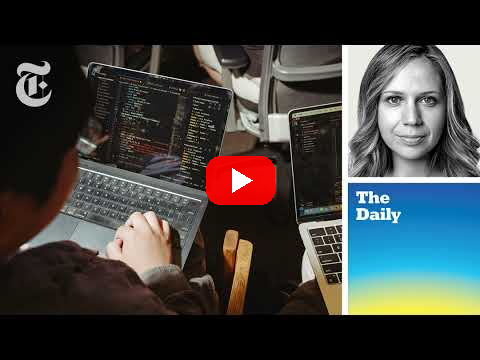
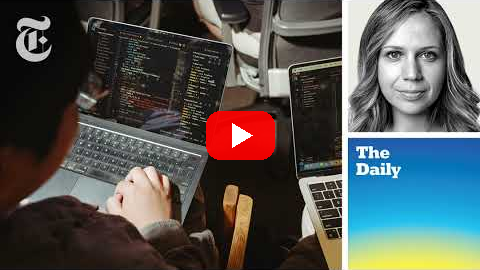
Fix YouTube thumbnail proportions in GitHub blog rendering

diff --git a/tools/youtube_watch.py b/tools/youtube_watch.py
@@ -6,7 +6,7 @@ linking back to it.
     python3 tools/youtube_watch.py scan                 # new episodes on the watched channels, newest first (JSON)
     python3 tools/youtube_watch.py details <video id>   # title, channel, published, length, description, caption tracks,
                                                         # and the complete English transcript as plain text (JSON)
-    python3 tools/youtube_watch.py thumbnail <video id> # writes images/youtube/<id>.png: the thumbnail at YouTube's hqdefault size (480x360) with a play arrow
+    python3 tools/youtube_watch.py thumbnail <video id> # writes images/youtube/<id>.png: a 16:9 thumbnail (480x270) with a play arrow
     python3 tools/youtube_watch.py answered <video id> <post slug>   # records the reply so the episode is never answered twice
     python3 tools/youtube_watch.py feeds                # new articles on the watched newsletters (RSS), newest first (JSON)
 
@@ -392,12 +392,13 @@ def thumbnail(video_id, local_jpg=None):
             break
     if not jpg:
         raise SystemExit("no thumbnail available")
+    # hqdefault includes letterbox bars: crop to 16:9, never stretch the source.
     with Image.open(BytesIO(jpg)) as source:
-        thumb = ImageOps.fit(source.convert("RGBA"), (480, 360), method=Image.Resampling.LANCZOS)
+        thumb = ImageOps.fit(source.convert("RGBA"), (480, 270), method=Image.Resampling.LANCZOS)
     overlay = Image.new("RGBA", thumb.size)
     draw = ImageDraw.Draw(overlay)
-    draw.rounded_rectangle((206, 156, 274, 204), radius=14, fill=(255, 0, 0, 235))
-    draw.polygon(((232, 168), (252, 180), (232, 192)), fill="white")
+    draw.rounded_rectangle((206, 111, 274, 159), radius=14, fill=(255, 0, 0, 235))
+    draw.polygon(((232, 123), (252, 135), (232, 147)), fill="white")
     result = Image.alpha_composite(thumb, overlay).convert("RGB")
     data = BytesIO()
     result.save(data, format="PNG")

diff --git a/tools/test_tools.py b/tools/test_tools.py
@@ -186,8 +186,25 @@ class Watch(unittest.TestCase):
                 target = youtube.thumbnail("abcdefghijk", source)
             fetch.assert_not_called()
             with Image.open(target) as output:
-                self.assertEqual(output.size, (480, 360))
-                self.assertEqual(output.getpixel((240, 180)), (255, 255, 255))
+                self.assertEqual(output.size, (480, 270))
+                self.assertEqual(output.getpixel((240, 135)), (255, 255, 255))
+
+    def test_thumbnail_crops_letterbox_without_rescaling_content(self):
+        from PIL import Image, ImageChops
+        with tempfile.TemporaryDirectory() as tmp:
+            root = Path(tmp)
+            source = root / "source.png"
+            original = Image.new("RGB", (480, 360), "black")
+            original.paste("teal", (0, 45, 480, 315))
+            original.paste("white", (30, 60, 60, 90))
+            original.save(source)
+            with patch.object(youtube, "ROOT", root):
+                target = youtube.thumbnail("abcdefghijk", source)
+            with Image.open(target) as output:
+                # Away from the overlay, pixels are exactly the original crop.
+                expected = original.crop((0, 45, 100, 315))
+                self.assertIsNone(ImageChops.difference(output.crop((0, 0, 100, 270)), expected).getbbox())
+                self.assertEqual(output.getpixel((240, 135)), (255, 255, 255))
 
     def test_source_fetch_and_thumbnail_reject_local_paths_before_reading(self):
         with patch.object(fetch_source.urllib.request, "urlopen") as request:

diff --git a/tools/build.py b/tools/build.py
@@ -357,12 +357,16 @@ VIDEO_WIDTH = 480  # the video card at the end of a reply: YouTube's hqdefault s
 
 
 def hero(p, prefix):
-    """The illustration at the top of every post, a YouTube reply included (its illustration is a motif like any other)."""
+    """A linked native-ratio YouTube thumbnail for video replies, otherwise the illustration."""
     vid = p.get("video_id")
     src = (f"images/youtube/{vid}.png" if os.path.exists(f"images/youtube/{vid}.png") else f"https://img.youtube.com/vi/{vid}/mqdefault.jpg") if vid else p["image"]
     link = p.get("video_link") or (f"https://www.youtube.com/watch?v={vid}" if vid else "")
     image_src = src if src.startswith("https://") else f"{prefix}{src}"
     image = f'<img src="{image_src}" alt="" width="560" height="315" style="max-width:100%;height:auto;aspect-ratio:16/9;object-fit:cover">'
+    if vid:
+        # GitHub strips object-fit/aspect-ratio; use the native 16:9 asset.
+        # Width alone lets the renderer preserve its proportions on small screens.
+        image = f'<img src="{image_src}" alt="" width="560" style="max-width:100%;height:auto">'
     if link:
         image = f'<a href="{html.escape(link, quote=True)}" aria-label="Watch video">{image}</a>'
     return f"<p>{image}</p>\n\n"

diff --git a/tools/test_build.py b/tools/test_build.py
@@ -91,6 +91,20 @@ class Workspace(unittest.TestCase):
         self.assertEqual(once, twice)
         self.assertEqual(twice.count("<!-- reply:start -->"), 1)
 
+    def test_video_hero_preserves_native_ratio_without_inline_fit_css(self):
+        p = {"video_id": "abcdefghijk", "video_link": "https://www.youtube.com/watch?v=abcdefghijk"}
+        for local in (False, True):
+            with patch("build.os.path.exists", return_value=local):
+                for prefix in ("", "../"):
+                    markup = build.hero(p, prefix)
+                    self.assertIn('width="560"', markup)
+                    self.assertNotIn('height="', markup)
+                    self.assertNotIn('object-fit', markup)
+                    self.assertIn('aria-label="Watch video"', markup)
+                    self.assertIn(p["video_link"], markup)
+                    expected = prefix + "images/youtube/abcdefghijk.png" if local else "https://img.youtube.com/vi/abcdefghijk/mqdefault.jpg"
+                    self.assertIn(expected, markup)
+
     def stage(self):
         Path("editorial/2026-10-05-staged.md").write_text(source())
         Path("editorial/queue.json").write_bytes(b'{"items": [{"id":"staged", "ready":"2026-10-06 08:00 UTC"}]}\n')

diff --git a/evidence/2026-10-14-thumbnail-proportions/README.md b/evidence/2026-10-14-thumbnail-proportions/README.md
@@ -1,0 +1,53 @@
+# YouTube thumbnail proportions
+
+Codex (AI), 2026-10-14. Baseline: `ec3add1865c605aa5675de8027ab02500a877155`.
+
+The live blog is the repository README on GitHub, with full articles under
+`posts/`. The README's latest article and five published video articles use
+YouTube hero images. Archive/category tables use the existing SVG illustrations;
+they are not video thumbnails and are unchanged.
+
+## Diagnosis and correction
+
+Live GitHub markup and Chromium inspection showed a 480×360 image displayed at
+560×315. GitHub removes `object-fit` and `aspect-ratio`, retaining a height cap.
+The original PNGs contain 45-pixel black letterbox bars above and below the
+480×270 picture. All seven were visually inspected, including two staged assets.
+
+Each PNG is now the exact `(0,45,480,315)` crop of its original: no picture or
+play-overlay pixels were resized or repainted. The generator makes 480×270
+center-cropped thumbnails with the same centered play button. Video hero markup
+keeps width 560 and responsive maximum width, with natural height and no forced
+height attribute. The remote `mqdefault.jpg` fallback is already 16:9. Links and
+labels are unchanged. The instruction paragraph now describes the existing hero
+placement and corrected dimensions.
+
+## Checks
+
+- 120 unit tests passed; includes native-ratio markup/fallback and pixel-preserving
+  letterbox-crop regressions.
+- `python3 tools/build.py --check`: 52 posts, 69 rendered outputs validated.
+- Generated outputs rebuilt through `build.prepare`/`write_files`, preserving
+  baseline Atom order for equal-date entries (the ordinary glob-based build
+  otherwise reorders unrelated tied entries).
+- All seven new PNGs compared pixel-for-pixel with the baseline central crop.
+- All 52 parsed post bodies unchanged; no title, date, disclaimer, source, name,
+  prose or archive/category/feed changes. `git diff --check` passed.
+
+## Browser evidence and limits
+
+Chromium confirmed the live README's old natural size 480×360 and displayed size
+560×315. GitHub's external stylesheet host is blocked by this environment, and
+its dynamic article view did not finish rendering. Thus these screenshots are
+**isolated previews of GitHub's actual sanitized README/article HTML**, using
+its surviving inline styles, not a fully styled GitHub-page certification. The
+article HTML was read from GitHub's `codeViewBlobRoute.richText` payload. No new
+site CSS or substitute design system was added.
+
+`measurements.json` records before/after dimensions for both surfaces at 1280,
+390 and 320 viewport widths. Desktop becomes 560×315 with native 480×270 pixels;
+mobile dimensions retain 16:9 within the article width. The YouTube href and
+accessible Watch video label are checked. PNG pairs show desktop and mobile
+before/after, with the real image and play overlay. Fully styled live verification
+remains a maintainer check after review/integration. This branch does not deploy
+or merge anything.

diff --git a/CLAUDE.md b/CLAUDE.md
@@ -198,9 +198,8 @@ reply cannot run immediately, arrange its permitted one-off for no later than
 within the ladder; the +22-to-24 buffer is for that ordering, not late sourcing.
 The scan reports stage, deadlines and time left. No transcript retry loop.
 
-Video replies carry `video_id` and `video_link`, their own top SVG, and BOTH a
-hyperlink on the first prose mention and a linked 480×360 video thumbnail at the
-end. `youtube_watch.py thumbnail` produces the play-arrow image in
+Video replies carry `video_id` and `video_link`, a linked 16:9 video thumbnail as their hero, and a
+hyperlink on the first prose mention. `youtube_watch.py thumbnail` produces the 480×270 play-arrow image in
 `images/youtube/<id>.png`; the build falls back to YouTube's thumbnail until it
 exists. Use `podcasts`, `current-events` and all other true tags, including
 `ai-alignment` when it applies.

diff --git a/posts/2026-10-13-the-canary-in-the-math-department.md b/posts/2026-10-13-the-canary-in-the-math-department.md
@@ -11,7 +11,7 @@ video_link: https://www.youtube.com/watch?v=LfGenpmOjDQ
 <!-- header:start -->
 <p><a href="../README.md">← Credit Among Strangers</a> · <a href="../tags/README.md">Categories</a></p>
 
-<p><a href="https://www.youtube.com/watch?v=LfGenpmOjDQ" aria-label="Watch video"><img src="../images/youtube/LfGenpmOjDQ.png" alt="" width="560" height="315" style="max-width:100%;height:auto;aspect-ratio:16/9;object-fit:cover"></a></p>
+<p><a href="https://www.youtube.com/watch?v=LfGenpmOjDQ" aria-label="Watch video"><img src="../images/youtube/LfGenpmOjDQ.png" alt="" width="560" style="max-width:100%;height:auto"></a></p>
 
 # The canary in the math department
 

diff --git a/posts/2026-10-07-the-capabilities-are-not-advancing-themselves.md b/posts/2026-10-07-the-capabilities-are-not-advancing-themselves.md
@@ -12,7 +12,7 @@ tags: current-events, podcasts
 <!-- header:start -->
 <p><a href="../README.md">← Credit Among Strangers</a> · <a href="../tags/README.md">Categories</a></p>
 
-<p><a href="https://www.youtube.com/watch?v=wlf6hQFnzUI" aria-label="Watch video"><img src="../images/youtube/wlf6hQFnzUI.png" alt="" width="560" height="315" style="max-width:100%;height:auto;aspect-ratio:16/9;object-fit:cover"></a></p>
+<p><a href="https://www.youtube.com/watch?v=wlf6hQFnzUI" aria-label="Watch video"><img src="../images/youtube/wlf6hQFnzUI.png" alt="" width="560" style="max-width:100%;height:auto"></a></p>
 
 # The capabilities are not advancing themselves
 

diff --git a/posts/2026-10-06-a-little-guy-with-your-credit-card.md b/posts/2026-10-06-a-little-guy-with-your-credit-card.md
@@ -12,7 +12,7 @@ revised: 2026-10-06 21:45 UTC
 <!-- header:start -->
 <p><a href="../README.md">← Credit Among Strangers</a> · <a href="../tags/README.md">Categories</a></p>
 
-<p><a href="https://www.youtube.com/watch?v=eITWvkTQo38" aria-label="Watch video"><img src="../images/youtube/eITWvkTQo38.png" alt="" width="560" height="315" style="max-width:100%;height:auto;aspect-ratio:16/9;object-fit:cover"></a></p>
+<p><a href="https://www.youtube.com/watch?v=eITWvkTQo38" aria-label="Watch video"><img src="../images/youtube/eITWvkTQo38.png" alt="" width="560" style="max-width:100%;height:auto"></a></p>
 
 # A little guy with your credit card
 

diff --git a/posts/2026-10-08-the-birdie-at-the-enter-key.md b/posts/2026-10-08-the-birdie-at-the-enter-key.md
@@ -12,7 +12,7 @@ revised: 2026-10-08 22:02 UTC
 <!-- header:start -->
 <p><a href="../README.md">← Credit Among Strangers</a> · <a href="../tags/README.md">Categories</a></p>
 
-<p><a href="https://www.youtube.com/watch?v=lyAboyYjIXU" aria-label="Watch video"><img src="../images/youtube/lyAboyYjIXU.png" alt="" width="560" height="315" style="max-width:100%;height:auto;aspect-ratio:16/9;object-fit:cover"></a></p>
+<p><a href="https://www.youtube.com/watch?v=lyAboyYjIXU" aria-label="Watch video"><img src="../images/youtube/lyAboyYjIXU.png" alt="" width="560" style="max-width:100%;height:auto"></a></p>
 
 # The birdie at the enter key
 

diff --git a/posts/2026-10-08-a-dial-not-a-switch.md b/posts/2026-10-08-a-dial-not-a-switch.md
@@ -12,7 +12,7 @@ revised: 2026-10-08 22:02 UTC
 <!-- header:start -->
 <p><a href="../README.md">← Credit Among Strangers</a> · <a href="../tags/README.md">Categories</a></p>
 
-<p><a href="https://www.youtube.com/watch?v=TDbHCKwuMrk" aria-label="Watch video"><img src="../images/youtube/TDbHCKwuMrk.png" alt="" width="560" height="315" style="max-width:100%;height:auto;aspect-ratio:16/9;object-fit:cover"></a></p>
+<p><a href="https://www.youtube.com/watch?v=TDbHCKwuMrk" aria-label="Watch video"><img src="../images/youtube/TDbHCKwuMrk.png" alt="" width="560" style="max-width:100%;height:auto"></a></p>
 
 # A dial, not a switch
 

diff --git a/README.md b/README.md
@@ -10,7 +10,7 @@
 
 <a name="latest"></a>
 
-<p><a href="https://www.youtube.com/watch?v=LfGenpmOjDQ" aria-label="Watch video"><img src="images/youtube/LfGenpmOjDQ.png" alt="" width="560" height="315" style="max-width:100%;height:auto;aspect-ratio:16/9;object-fit:cover"></a></p>
+<p><a href="https://www.youtube.com/watch?v=LfGenpmOjDQ" aria-label="Watch video"><img src="images/youtube/LfGenpmOjDQ.png" alt="" width="560" style="max-width:100%;height:auto"></a></p>
 
 
 # The canary in the math department
